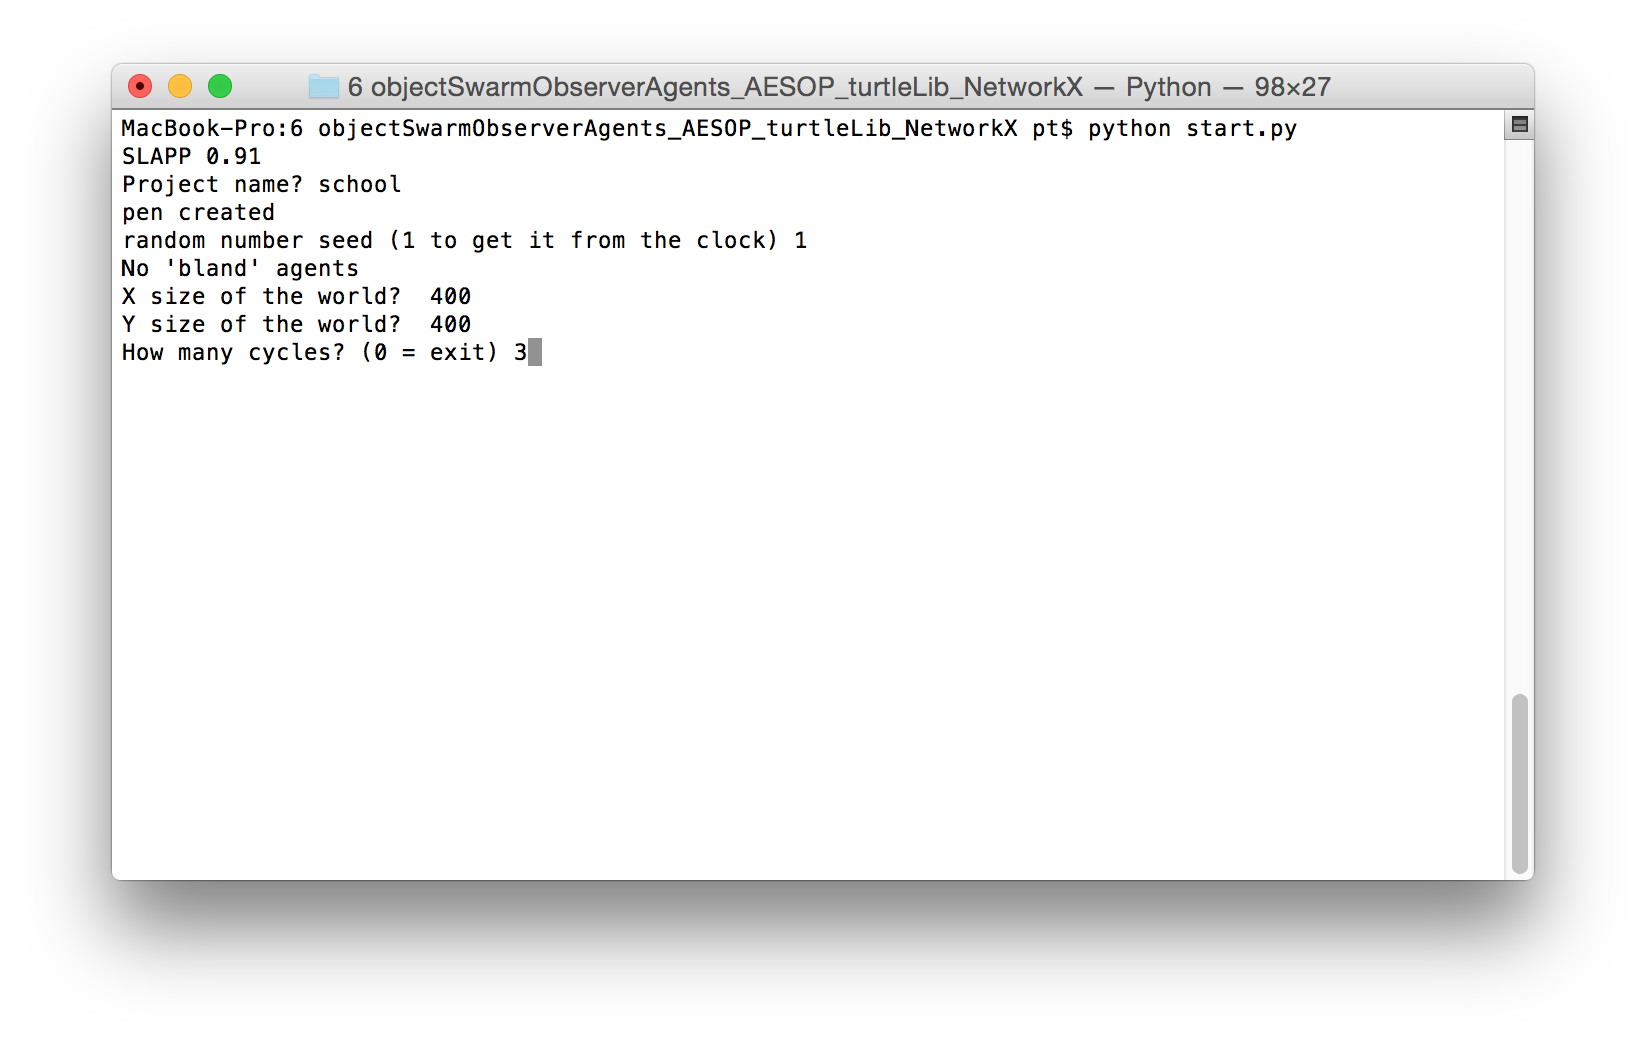
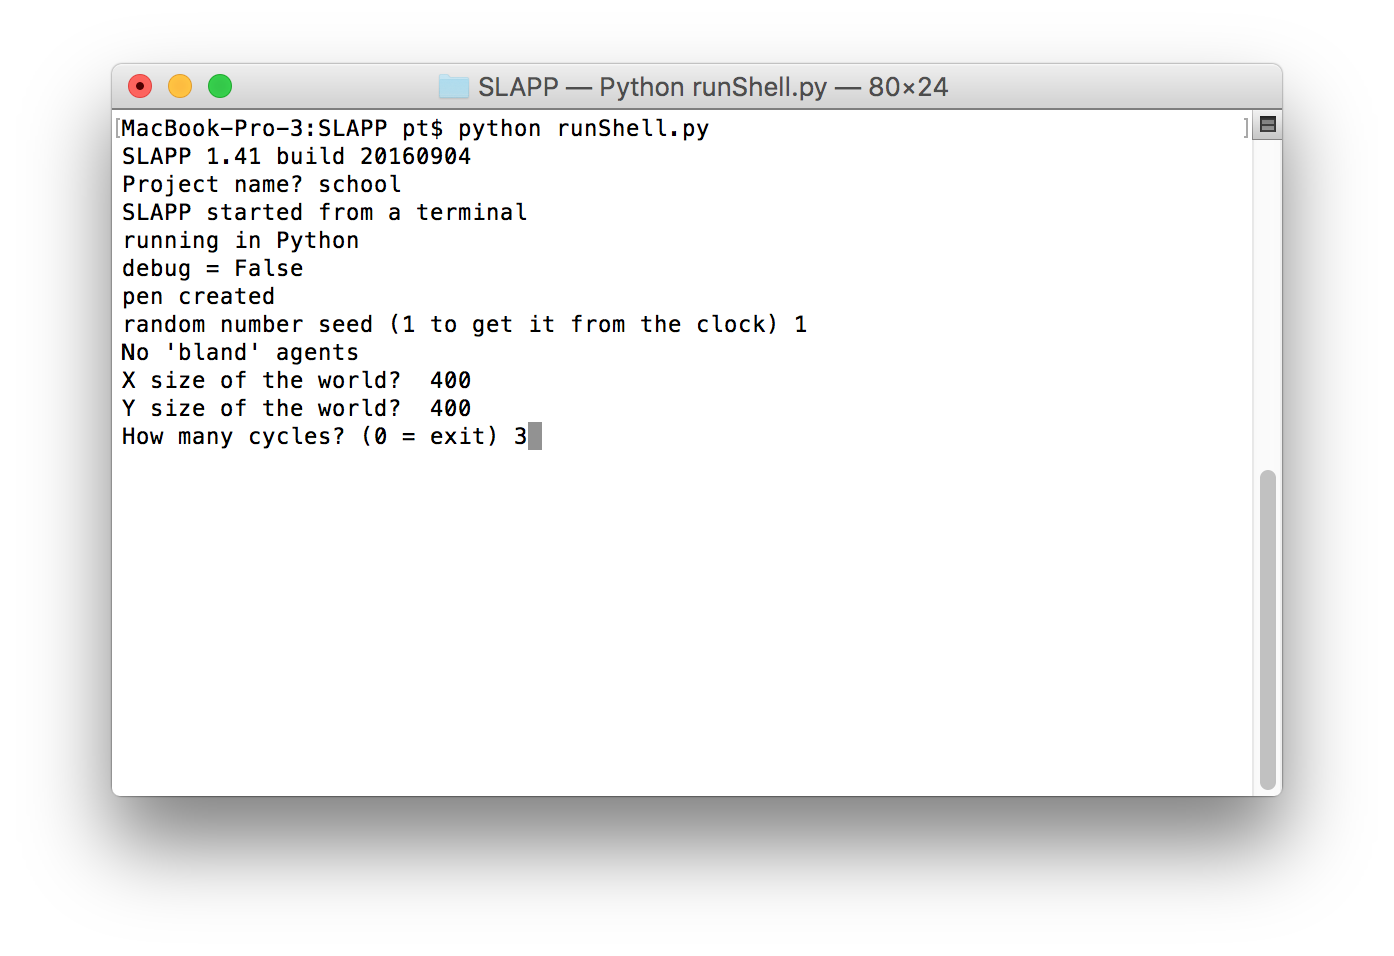
new images

Changed region(s): [[0.0617, 0.0607, 0.9562, 0.8797], [0.3702, 0.4247, 0.401, 0.4854]]

diff --git a/6 objectSwarmObserverAgents_AESOP_turtleLib_NetworkX/start.py b/6 objectSwarmObserverAgents_AESOP_turtleLib_NetworkX/start.py
@@ -12,7 +12,7 @@
 
 def runSLAPP():
  global start_pyDir
- print "SLAPP 1.4 build 20160902"
+ print "SLAPP 1.41 build 20160904"
  import os
 
 

diff --git a/README.md b/README.md
@@ -5,9 +5,9 @@ SLAPP <img src="./-pictures/slapp-logo.png" height="90" />
 
 Swarm-Like Agent Protocol in Python
 
-Here you have SLAPP **v.1.4 build 20160902** (in the [SLAPP repository](http://terna.to.it/slapp_dep/) you have related material and old versions).
+Here you have SLAPP **v.1.41 build 20160904** (in the [SLAPP repository](http://terna.to.it/slapp_dep/) you have related material and old versions).
 
-We have now a [**Reference Handbook**](https://github.com/terna/SLAPP/blob/v.1.4/SLAPP_Reference_Handbook.pdf) (it is still a draft and has to be improved).
+We have now a [**Reference Handbook**](https://github.com/terna/SLAPP/blob/v.1.41/SLAPP_Reference_Handbook.pdf) (it is still a draft and has to be improved).
 
 Five chapters of a new [book](http://www.palgrave.com/page/detail/agentbased-models-of-the-economy-/?K=9781137339805) are related to SLAPP.
 
@@ -18,9 +18,12 @@ SLAPP logo: credits to [Steve Rogers](https://www.linkedin.com/in/shrogers).
 
 How to start: a quick introduction
 ====
-To study the tutorial, read the content of the file "SLAPP tutorial.txt"
+To have an introduction to Agent-based programming techniques in a general way,
+read the content of the file "SLAPP tutorial.txt"; the tutorial explains the
+fundamental ideas of the[Swarm](http://www.swarm.org) project, which is the root
+of the SLAPP construction; NB, it is not required to study the tutorial to use SLAPP.
 
-To start running the agent-based shell, read the content of the file "SLAPP shell.txt" and install the required libraries; then open a terminal, go into the SLAPP main folder, then in the folder "6 objectSwarmObserverAgents_AESOP_turtleLib_NetworkX" (simply cd 6 and then tab) and
+To start running the agent-based shell, read the content of the file "SLAPP shell.txt" and install the required libraries (look at the Appendix A of the Reference Handbook in this folde); then open a terminal, go into the SLAPP main folder, and
 
 1 - launch the application "basic" as in the following window:
 
@@ -30,7 +33,7 @@ The effect is (plain text output only):
 
 <img src="./-pictures/t2.png" />
 
-or
+or 
 
 2 - launch the application "school" as in the following window:
 
